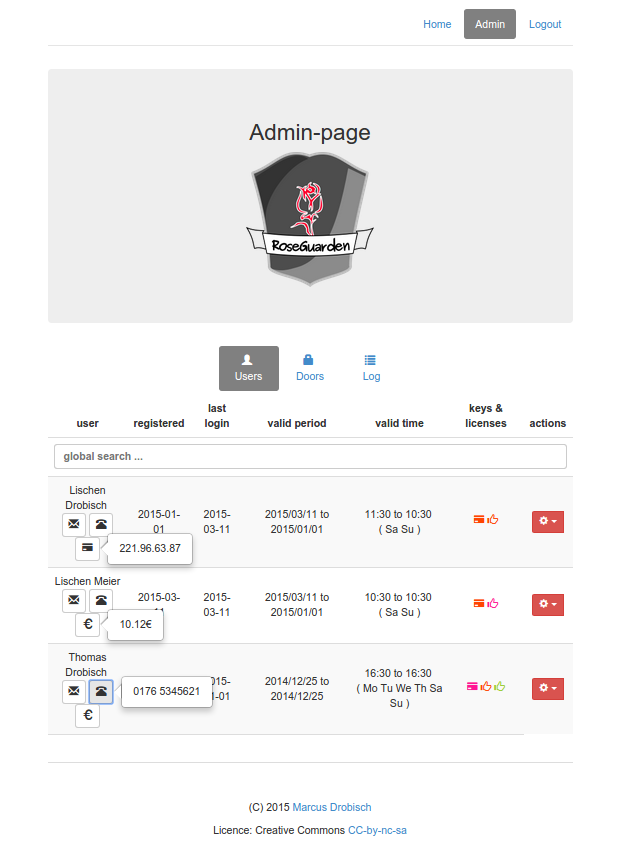
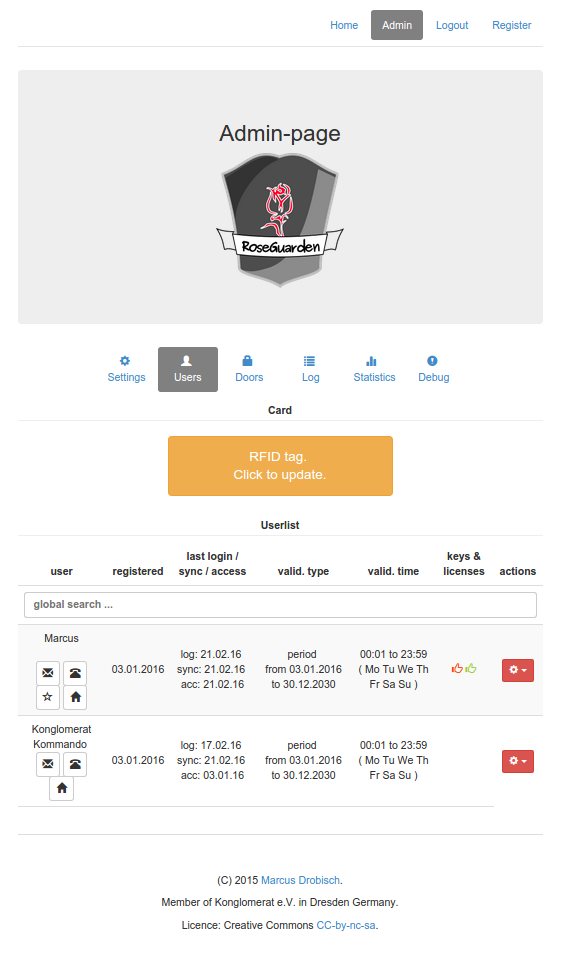
IMPROVE (documentation) README.md and Screenshots

diff --git a/README.md b/README.md
@@ -3,6 +3,17 @@ RoseGuarden
 
 A remote door api and web application for Raspberry Pi, Odroid, Orange Pi or BeagleBoard (based on python).
 
+Features
+==========
+
+* affordable access-control system
+* authentication by rfid-tags or webserver-application (smarthone, tablet)
+* easily extendable for additional doors. through network based system
+* 3 different user-roles (user, supervisor, admin) for managing accesses and viewing logs
+* different types of accesses (period, days-budget)
+* additional options to adjust accesses (by given time, weekdays, differenet door-licences)
+* basic statistics (total users, total accesses, accesses per weekday, accesses per door/node)
+
 Quickstart
 ==========
 
@@ -149,6 +160,9 @@ Screenshots (Software)
 
 ![users](documentation/screenshots/admin_users.png)
 
+![users](documentation/screenshots/admin_stats.png)
+
+![users](documentation/screenshots/suervisor_space.png)
 
 Hardware
 ========
